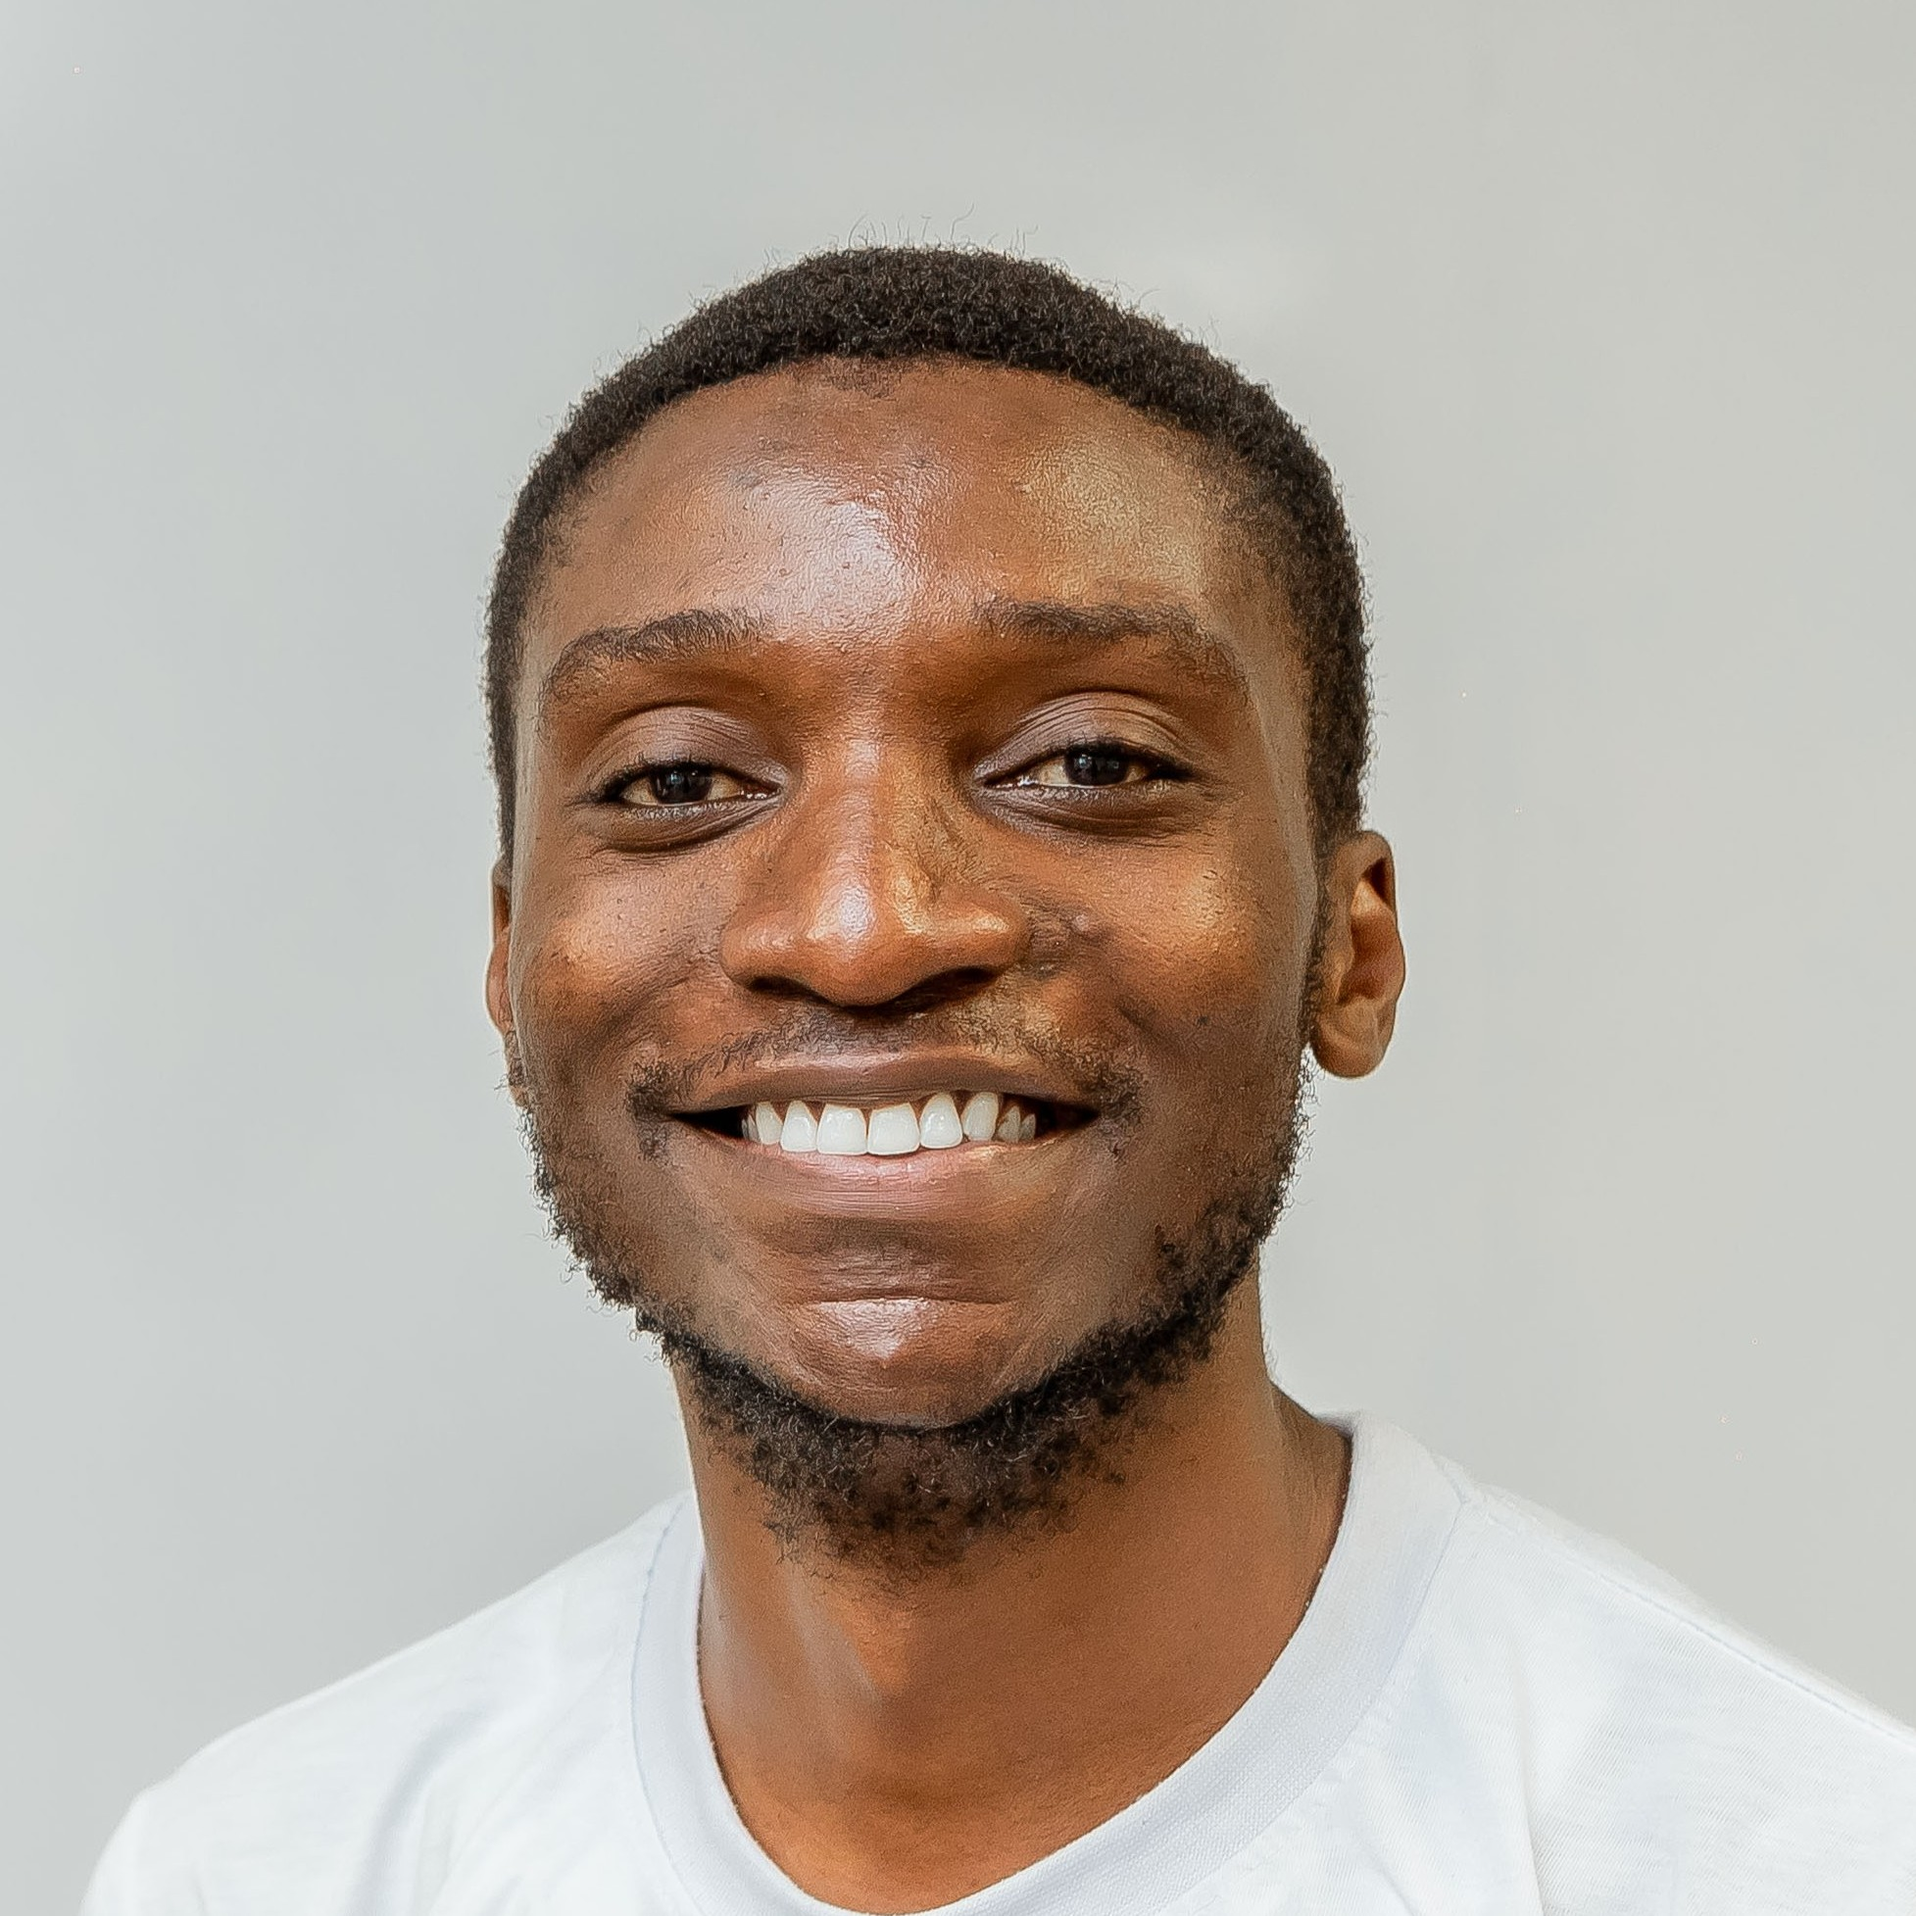
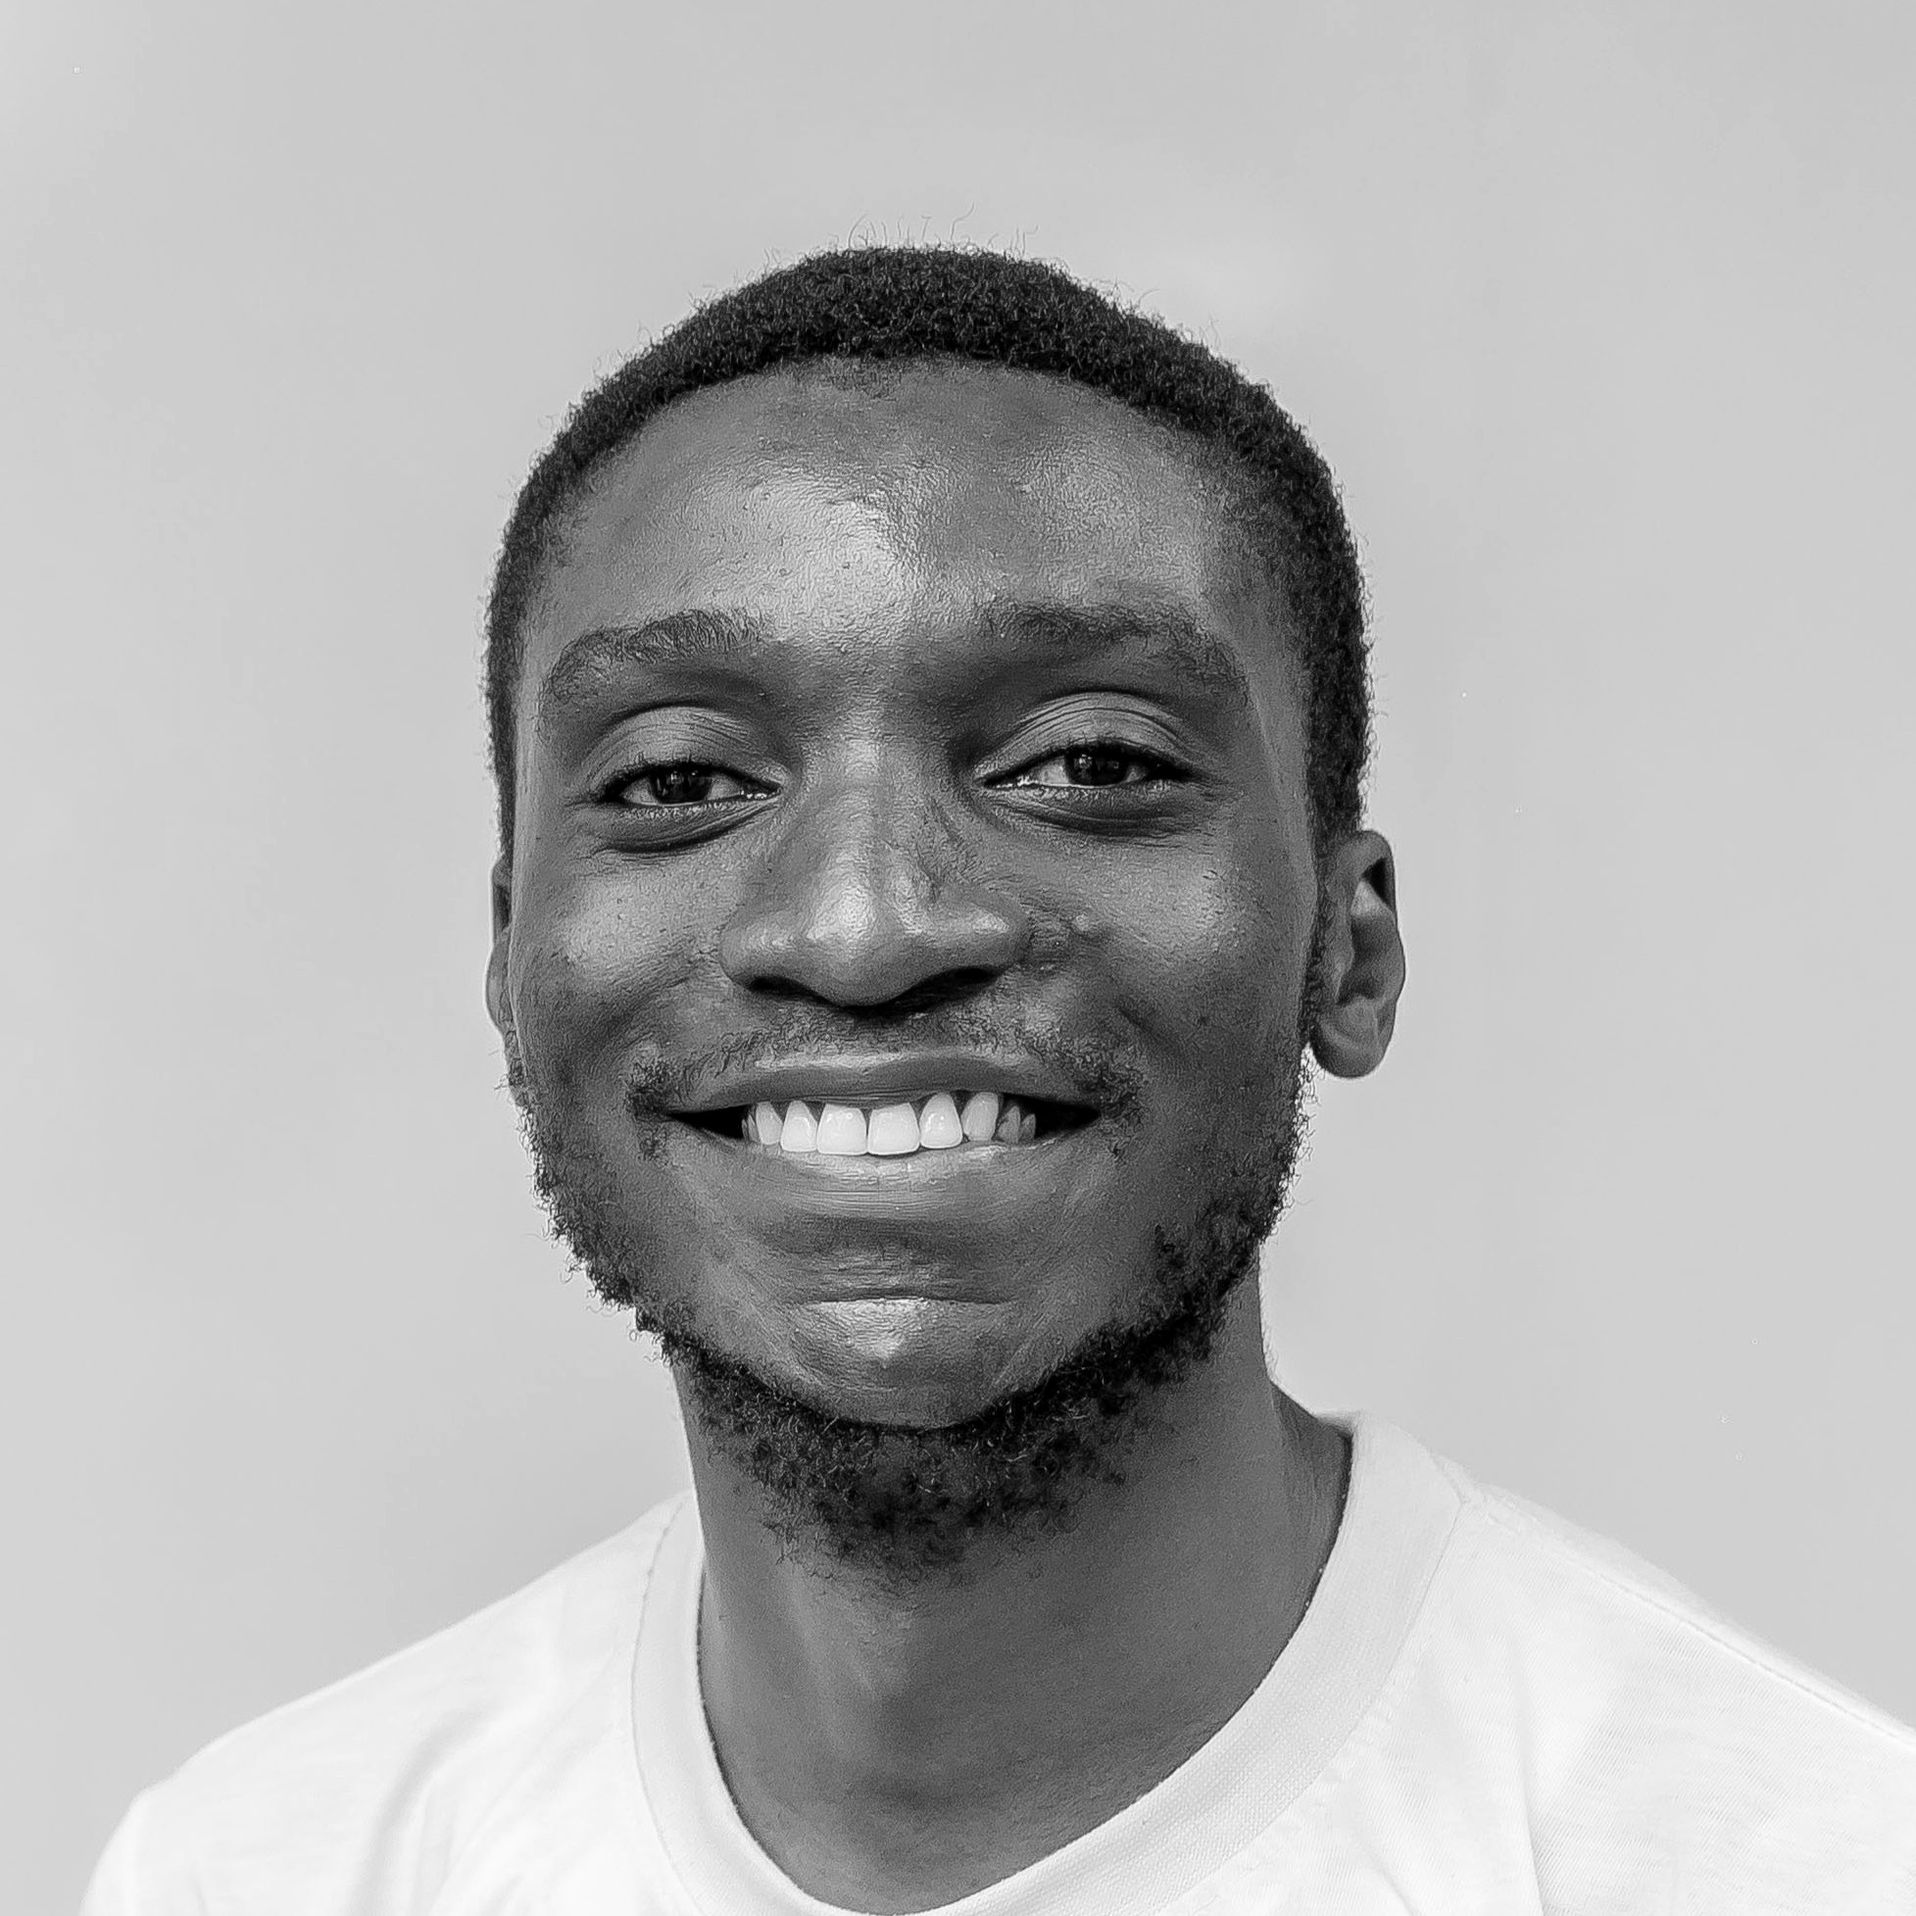
Feat : theme with next-themes

Changed region(s): [[0.2496, 0.1872, 0.7488, 1.0]]

diff --git a/components/menu/menu.tsx b/components/menu/menu.tsx
@@ -9,6 +9,7 @@ import { useEffect, useState } from "react";
 import { BsSunFill } from "react-icons/bs";
 import { ImenuDataProps } from "@/type";
 import { ThemeProvider, useTheme } from "next-themes";
+import Theme from "./theme";
 
 export const data: ImenuDataProps[] = [
   {
@@ -27,25 +28,20 @@ export const data: ImenuDataProps[] = [
 
 const Menu = ({ children }: { children: React.ReactNode }) => {
   const [showMenu, setShowMenu] = useState<boolean>(false);
-  const { theme, setTheme } = useTheme();
 
   const handleMenu = () => {
     setShowMenu(!showMenu);
-  };
-
-  const handleTheme = (themeToApply: "light" | "dark" | "system") => {
-    setTheme(themeToApply);
   };
 
   useEffect(() => {
     // setDarkMode(
     //   JSON.parse(localStorage.getItem("darkMode") as string) || false
     // );
-    console.log(theme);
+    // console.log(theme);
   }, []);
 
   return (
-    <ThemeProvider attribute="class">
+    <ThemeProvider defaultTheme="light" attribute="class">
       <main className={`flex flex-col justify-between min-h-screen`}>
         <nav className="   text-dark_bg max-w-[100vw] shadow-md  tracking-tight dark:text-default_color  flex flex-col w-screen fixed top-0 z-20 justify-center bg-[#f0f0f0] dark:bg-dark_bg items-center ">
           <div className="max-w-[1400px]  px-8  w-full bg-inherit dark:bg-dark_bg flex justify-between  py-5 items-center border-b-[1px] dark:border-b-border_color border-b-gray-300  ">
@@ -53,17 +49,17 @@ const Menu = ({ children }: { children: React.ReactNode }) => {
               href={"/"}
               className=" flex justify-center items-center gap-3 "
             >
-              <Link
+              <a
                 href="mailto:makutajosue@gmail.com"
                 className=" flex justify-center items-center w-7 h-7 md:w-10 md:h-10 rounded-full border-[1px] border-default_color cursor-pointer "
               >
                 <AiOutlineMail />
-              </Link>
+              </a>
               <div className=" font-bold text-sm md:text-base">
                 Josué Makuta
               </div>
             </Link>
-            <div className=" flex md:hidden ">
+            <div className=" flex md:hidden cursor-pointer ">
               <RiMenu2Line size={23} onClick={handleMenu} />
             </div>
             <div className="hidden md:flex gap-[3rem]">
@@ -85,19 +81,7 @@ const Menu = ({ children }: { children: React.ReactNode }) => {
                   );
                 })}
               </div>
-              <div className="flex w-[3rem] gap-2  transition-all justify-center items-center  z-50 ">
-                <BsSunFill
-                  size={20}
-                  className=" cursor-pointer hover:scale-110 transition-all"
-                  onClick={() => handleTheme("dark")}
-                />
-                <RiMoonClearFill
-                  size={20}
-                  className="cursor-pointer hover:scale-110 transition-all"
-                  onClick={() => handleTheme("light")}
-                />
-                {theme}
-              </div>
+              <Theme />
               {/* <div>
                 <input
                   className="border-none bg-inherit rounded-full p-0 w-7 h-7"
@@ -110,7 +94,7 @@ const Menu = ({ children }: { children: React.ReactNode }) => {
 
         {showMenu && (
           <nav className=" flex flex-col w-screen h-screen gap-8 dark:text-white bg-gray-200 fixed top-0 z-20 justify-center items-center  dark:bg-dark_bg">
-            <div className="flex">
+            <div className="flex  cursor-pointer">
               <RiCloseLine size={23} onClick={handleMenu} />
             </div>
             <div className="flex flex-col justify-center items-center gap-8 ">
@@ -122,28 +106,7 @@ const Menu = ({ children }: { children: React.ReactNode }) => {
                 );
               })}
             </div>
-            <div className="flex w-[3rem] hover:scale-110 transition-all justify-center items-center  z-50 ">
-              {/* {darkMode && (
-              <BsSunFill
-                size={20}
-                className=" cursor-pointer "
-                onClick={() => {
-                  setDarkMode(false);
-                  handleMenu();
-                }}
-              />
-            )}
-            {!darkMode && (
-              <RiMoonClearFill
-                size={20}
-                className="cursor-pointer"
-                onClick={() => {
-                  setDarkMode(true);
-                  handleMenu();
-                }}
-              />
-            )} */}
-            </div>
+            <Theme />
           </nav>
         )}
 

diff --git a/components/menu/theme.tsx b/components/menu/theme.tsx
@@ -1,0 +1,31 @@
+import { useTheme } from "next-themes";
+import { BsSunFill } from "react-icons/bs";
+import { RiMoonClearFill } from "react-icons/ri";
+
+const Theme = () => {
+  const { theme, setTheme } = useTheme();
+
+  const handleTheme = (themeToApply: "light" | "dark" | "system") => {
+    setTheme(themeToApply);
+  };
+  return (
+    <div className="flex w-[3rem] gap-2  transition-all justify-center items-center  z-50 ">
+      {theme == "dark" && (
+        <BsSunFill
+          size={20}
+          className=" cursor-pointer hover:scale-110 transition-all"
+          onClick={() => handleTheme("light")}
+        />
+      )}
+      {theme == "light" && (
+        <RiMoonClearFill
+          size={20}
+          className="cursor-pointer hover:scale-110 transition-all"
+          onClick={() => handleTheme("dark")}
+        />
+      )}
+    </div>
+  );
+};
+
+export default Theme;

diff --git a/components/home/user.tsx b/components/home/user.tsx
@@ -55,7 +55,7 @@ const User = () => {
             width={400}
             height={400}
             alt="Profil image"
-            className="filter: grayscale(100%)"
+            className="transition-all"
           />
         </div>
         <p>

diff --git a/next.config.js b/next.config.js
@@ -6,6 +6,10 @@ const nextConfig = {
         protocol: "https",
         hostname: "cdn-images.himalayas.app",
       },
+      {
+        protocol: "https",
+        hostname: "ui-avatars.com",
+      },
     ],
   },
 };
